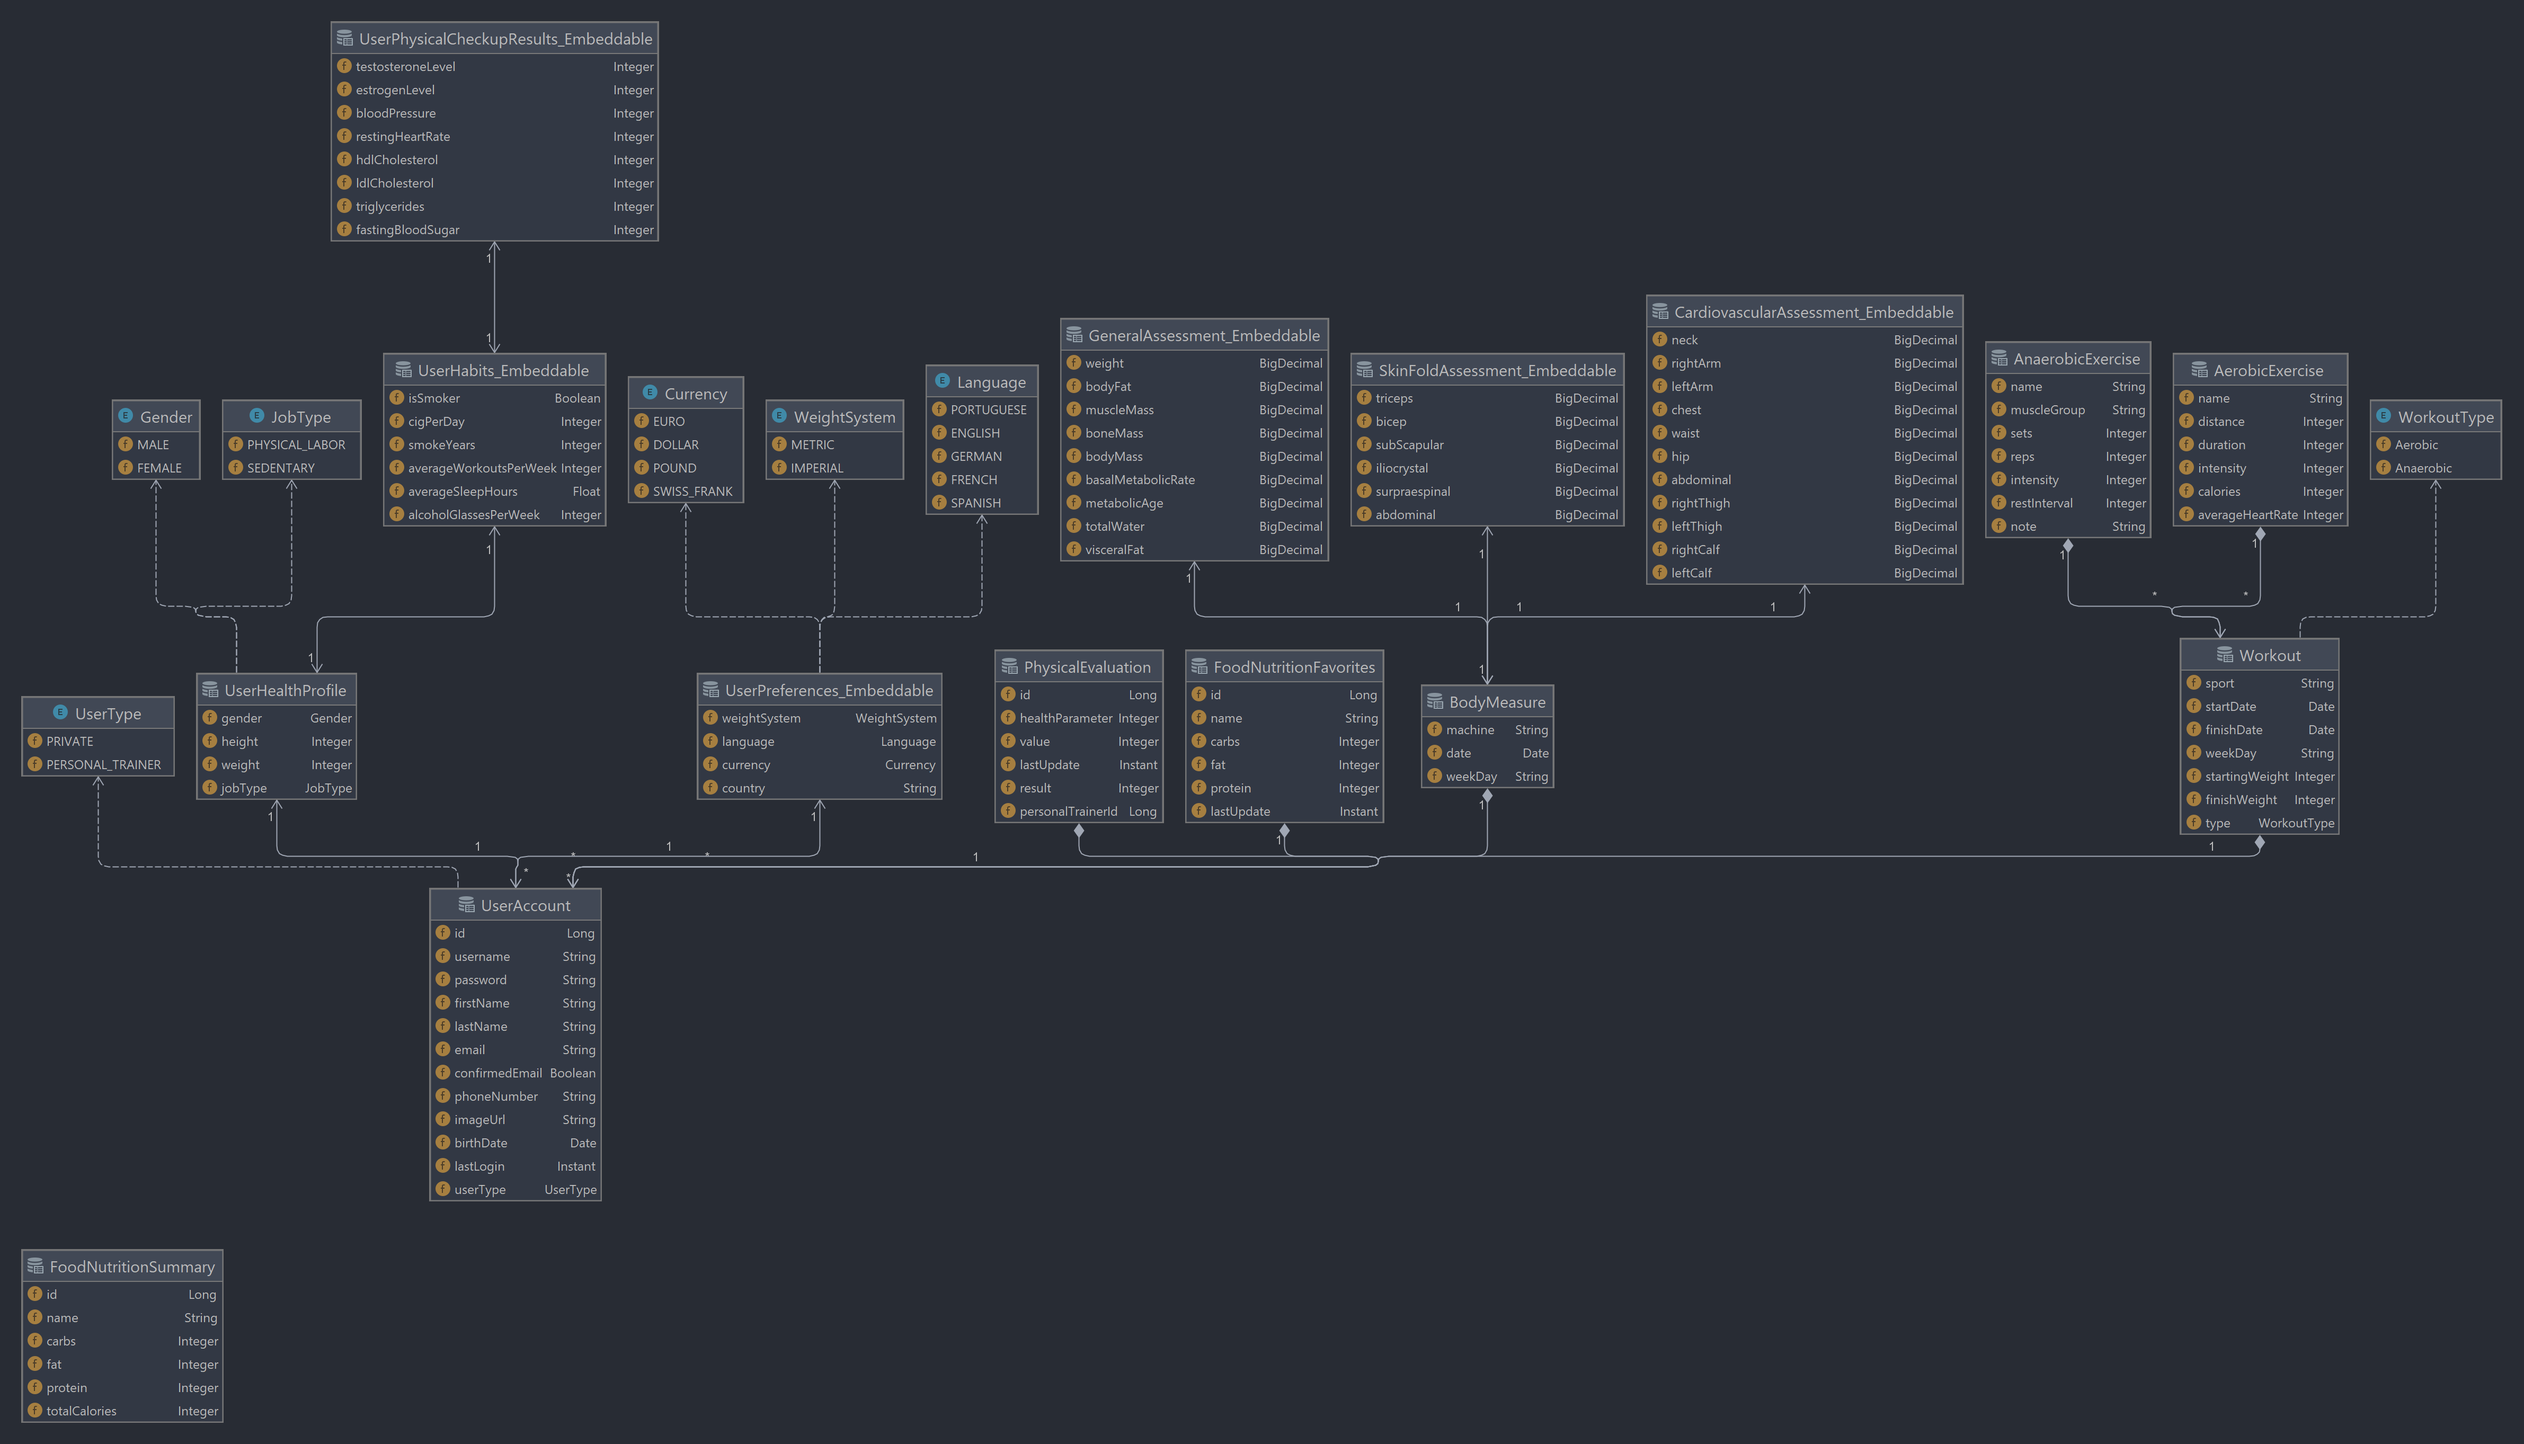
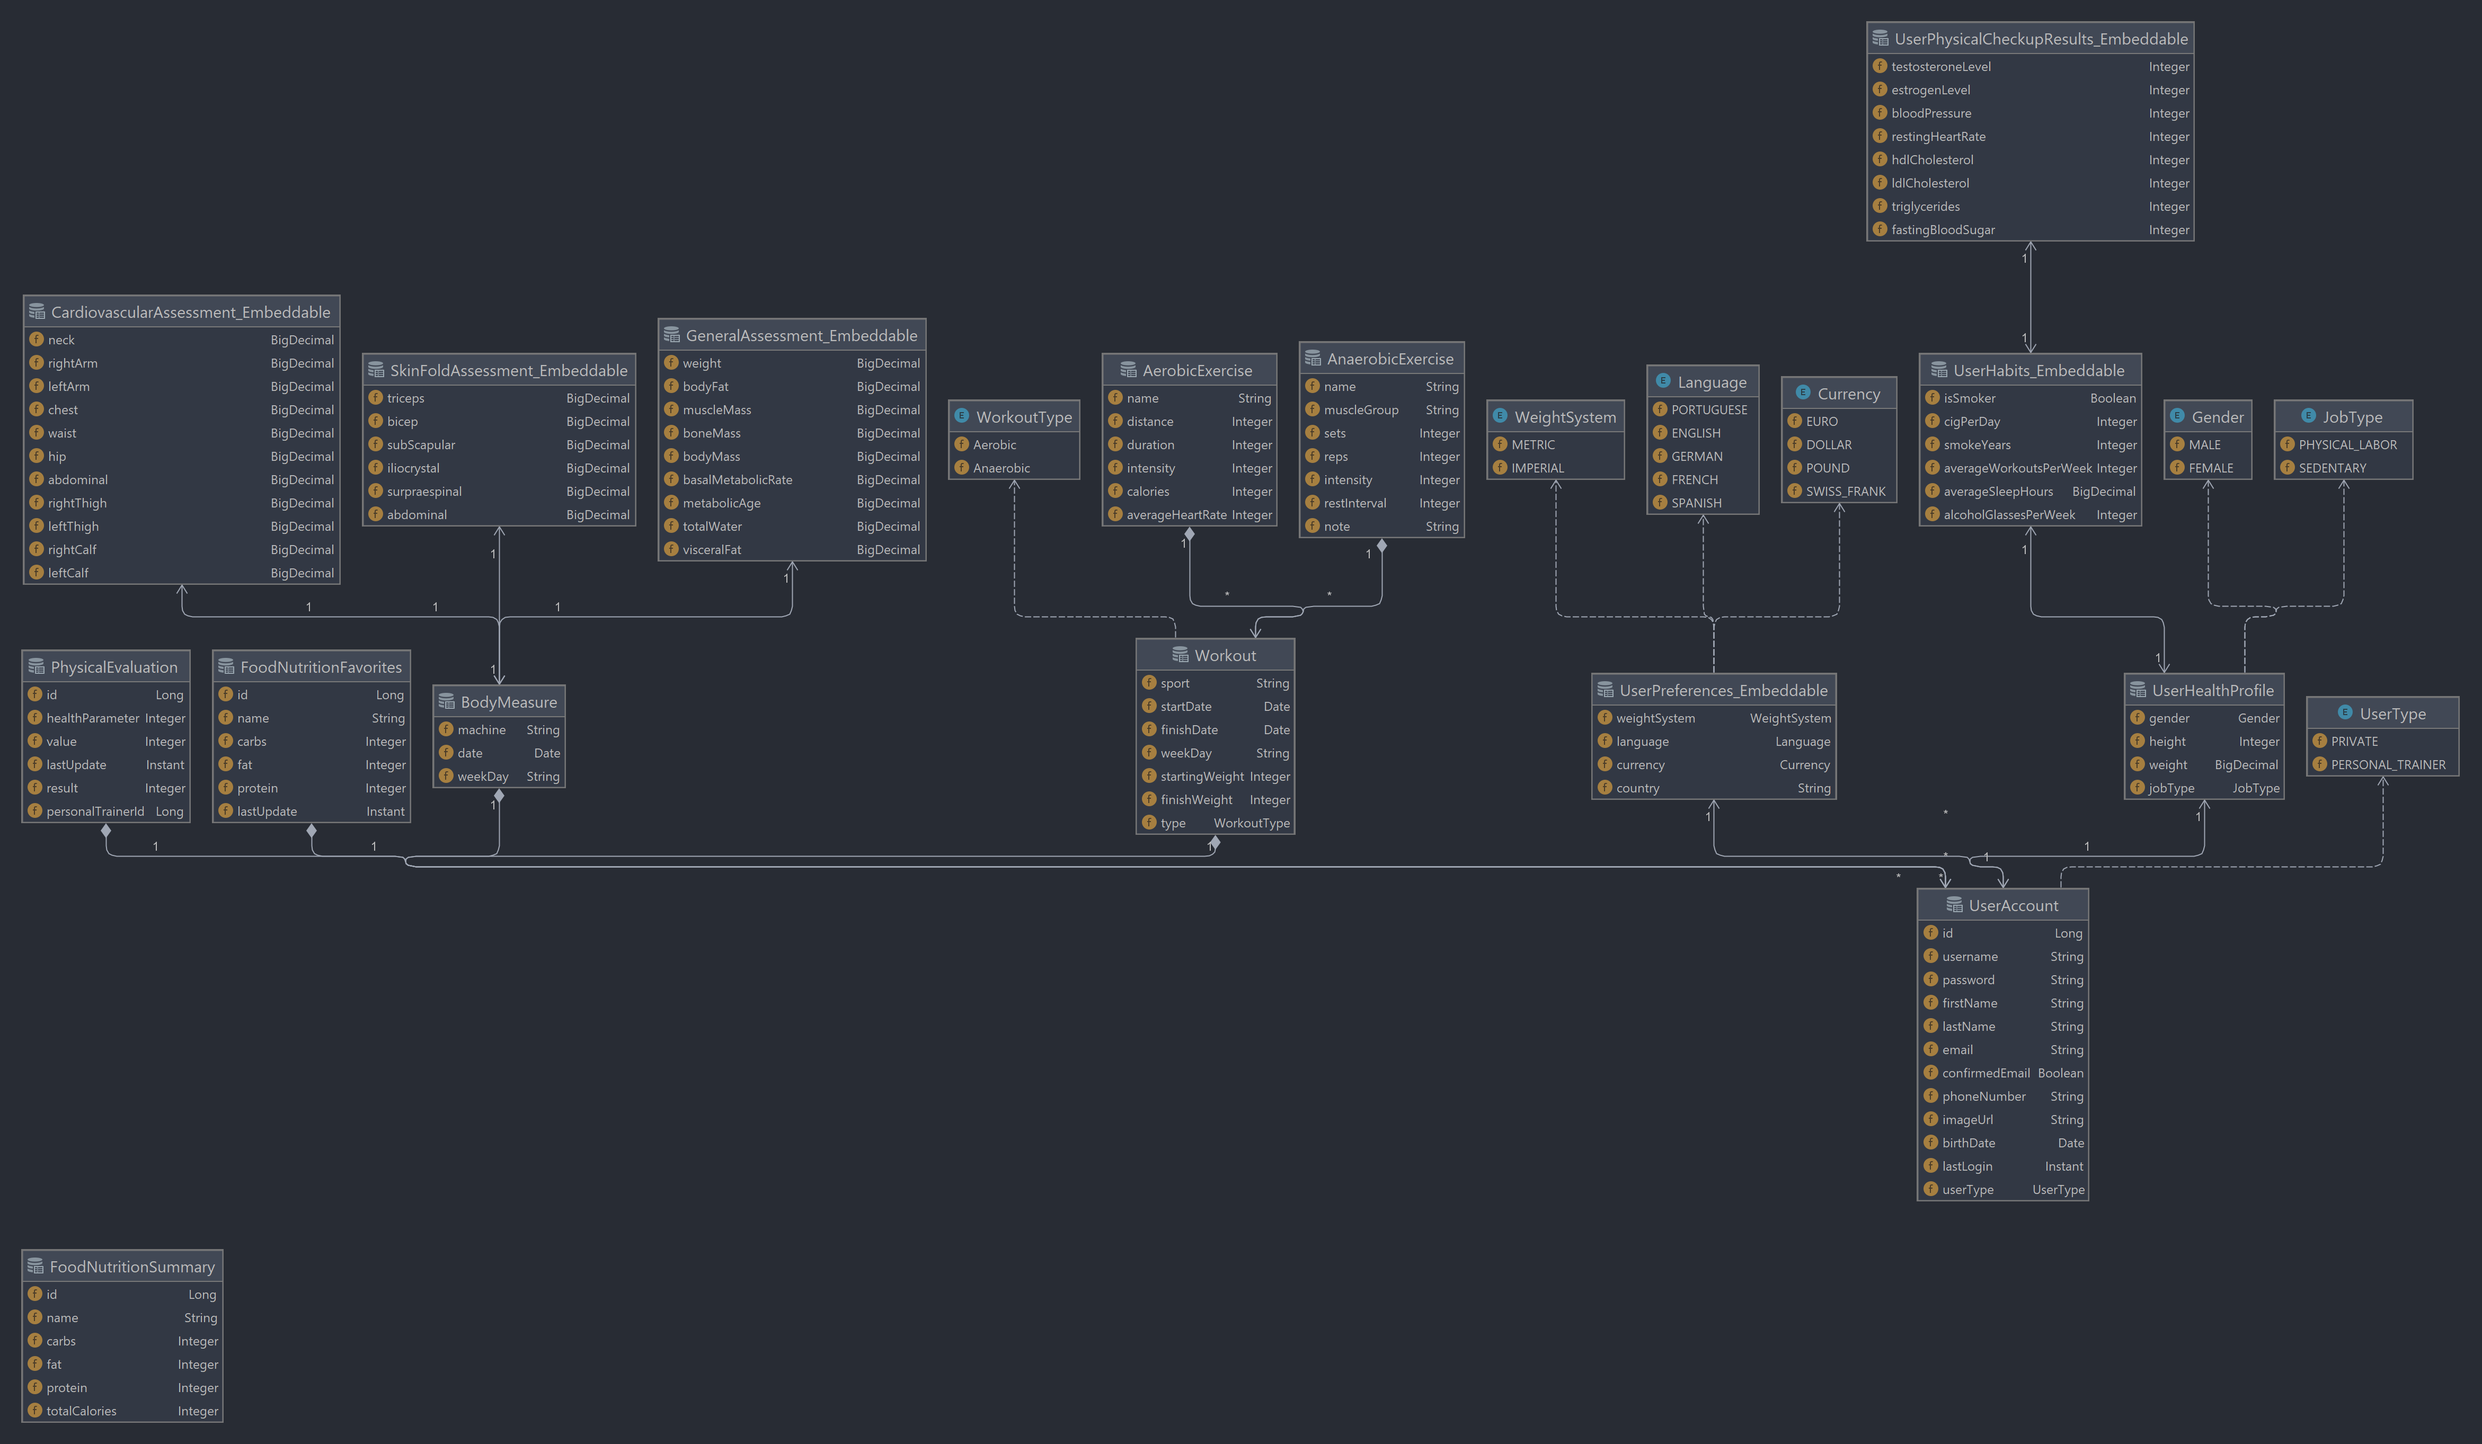
changed weight and average sleep hours to BigDecimal

diff --git a/src/main/java/com/myhealth/healthmanagermain/domain/UserHealthProfile.java b/src/main/java/com/myhealth/healthmanagermain/domain/UserHealthProfile.java
@@ -2,6 +2,7 @@ package com.myhealth.healthmanagermain.domain;
 
 import com.myhealth.healthmanagermain.domain.enums.Gender;
 import com.myhealth.healthmanagermain.domain.enums.JobType;
+import java.math.BigDecimal;
 import javax.persistence.Column;
 import javax.persistence.Embedded;
 import javax.persistence.Entity;
@@ -43,7 +44,7 @@ public class UserHealthProfile {
 
   @NotNull
   @Column(name = "weight")
-  private Integer weight;
+  private BigDecimal weight;
 
   @Enumerated(EnumType.STRING)
   @Column(name = "jobType", nullable = false)

diff --git a/src/main/java/com/myhealth/healthmanagermain/domain/UserHabits.java b/src/main/java/com/myhealth/healthmanagermain/domain/UserHabits.java
@@ -1,5 +1,6 @@
 package com.myhealth.healthmanagermain.domain;
 
+import java.math.BigDecimal;
 import javax.persistence.Embeddable;
 import javax.persistence.Embedded;
 import lombok.Getter;
@@ -16,7 +17,7 @@ public class UserHabits {
   private Integer cigPerDay;
   private Integer smokeYears;
   private Integer averageWorkoutsPerWeek;
-  private Float averageSleepHours;
+  private BigDecimal averageSleepHours;
   private Integer alcoholGlassesPerWeek;
   @Embedded
   private UserPhysicalCheckupResults physicalCheckupResults;
